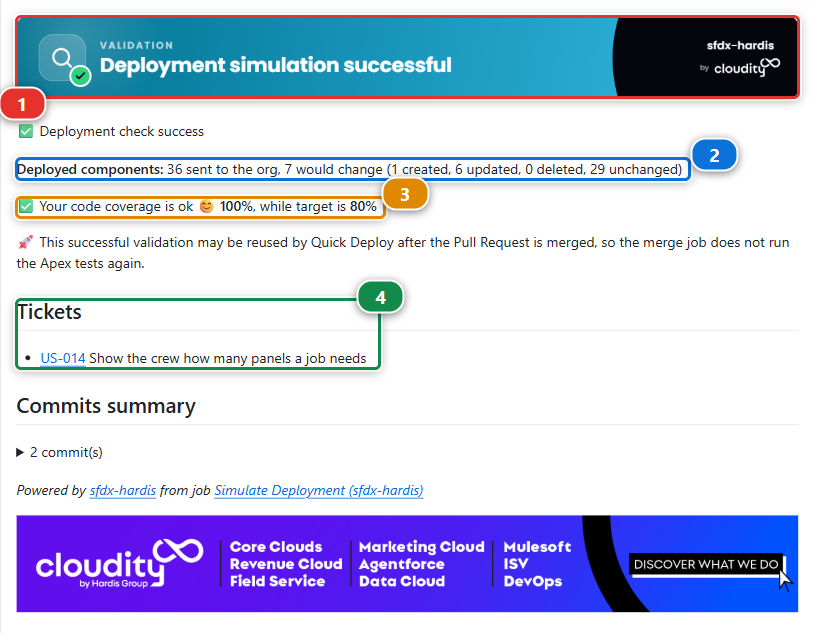
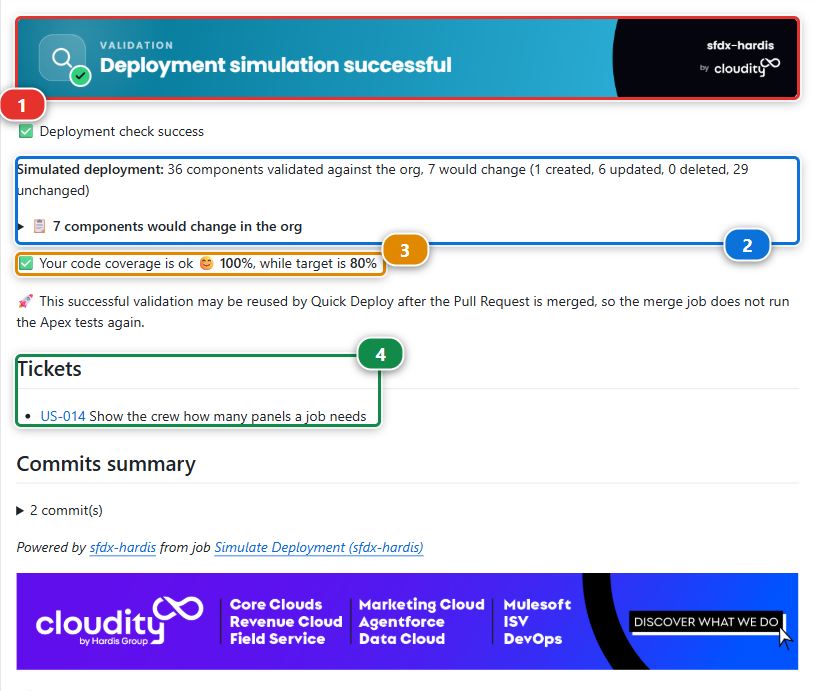
fix(lab 1.6): the checks table cites the pills the picture draws, and the comment picture shows the Simulated deployment line

Changed region(s): [[0.0, 0.0, 0.9816, 0.9905]]

diff --git a/labs/fr/level-1-contributor-basics/1-6-pull-request-deployment-check-and-merge.md b/labs/fr/level-1-contributor-basics/1-6-pull-request-deployment-check-and-merge.md
@@ -111,8 +111,8 @@ Ouvrez l'onglet **Checks** **(1)**. Deux d'entre eux comptent ici, et les deux d
 
 | Contrôle                                      | Ce qu'il fait                                                                                  |
 |-----------------------------------------------|------------------------------------------------------------------------------------------------|
-| **Simulate Deployment (sfdx-hardis)** **(3)** | Déploie votre métadonnée dans `helios-integration` en mode validation, et lance les tests Apex |
-| **Mega-Linter** **(2)**                       | Lance les linters de qualité de code sur le repository                                         |
+| **Simulate Deployment (sfdx-hardis)** **(2)** | Déploie votre métadonnée dans `helios-integration` en mode validation, et lance les tests Apex |
+| **Mega-Linter** **(3)**                       | Lance les linters de qualité de code sur le repository                                         |
 
 ![L'onglet Checks d'une Pull Request, listant les jobs qui ont tourné](../../_assets/annotated/web/github-pr-checks.png)
 

diff --git a/labs/en/level-1-contributor-basics/1-6-pull-request-deployment-check-and-merge.md b/labs/en/level-1-contributor-basics/1-6-pull-request-deployment-check-and-merge.md
@@ -107,8 +107,8 @@ Open the **Checks** tab **(1)**. Two of them matter here, and both start on thei
 
 | Check                                         | What it does                                                                                |
 |-----------------------------------------------|---------------------------------------------------------------------------------------------|
-| **Simulate Deployment (sfdx-hardis)** **(3)** | Deploys your metadata into `helios-integration` in validation mode, and runs the Apex tests |
-| **Mega-Linter** **(2)**                       | Runs the code quality linters over the repository                                           |
+| **Simulate Deployment (sfdx-hardis)** **(2)** | Deploys your metadata into `helios-integration` in validation mode, and runs the Apex tests |
+| **Mega-Linter** **(3)**                       | Runs the code quality linters over the repository                                           |
 
 ![The Checks tab of a Pull Request, listing the jobs that ran](../../_assets/annotated/web/github-pr-checks.png)
 
